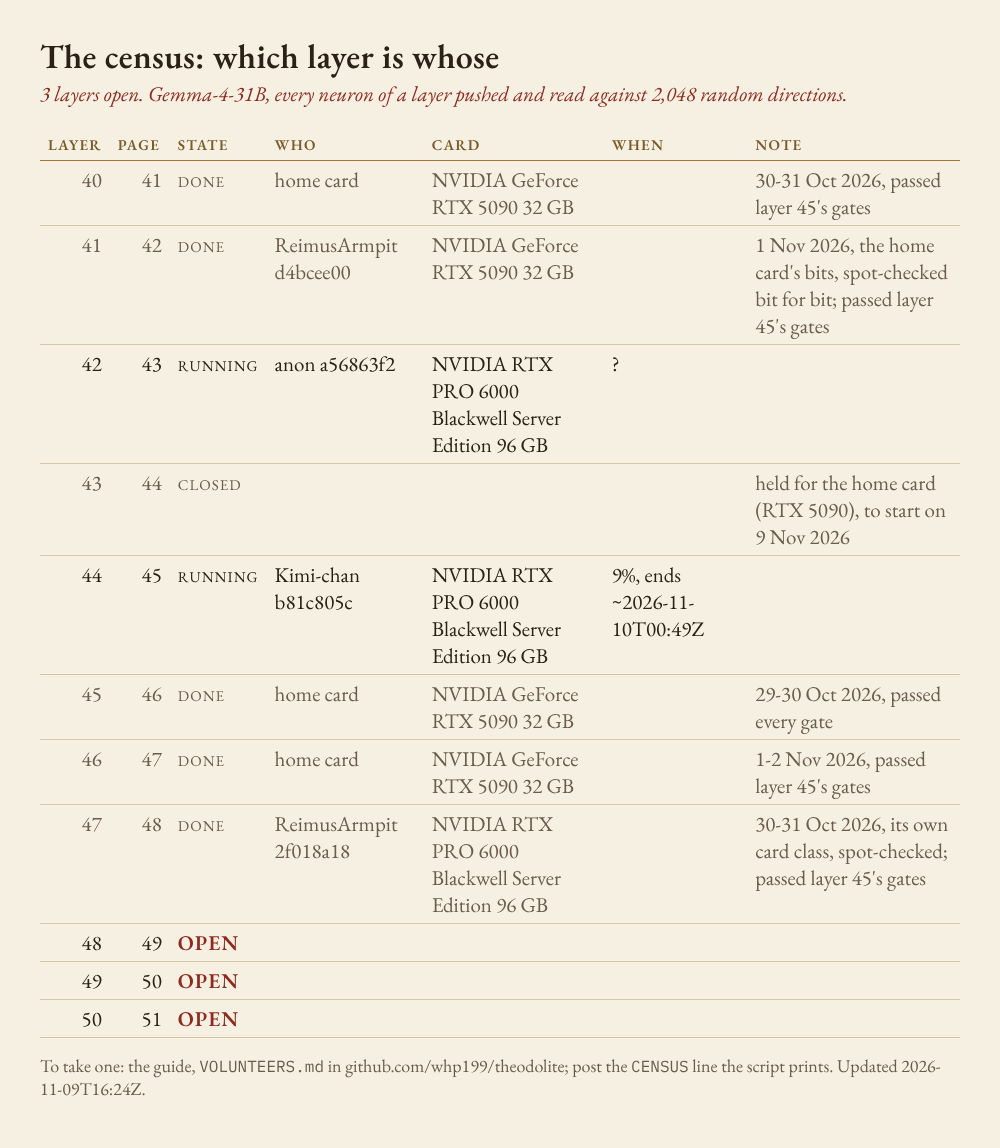
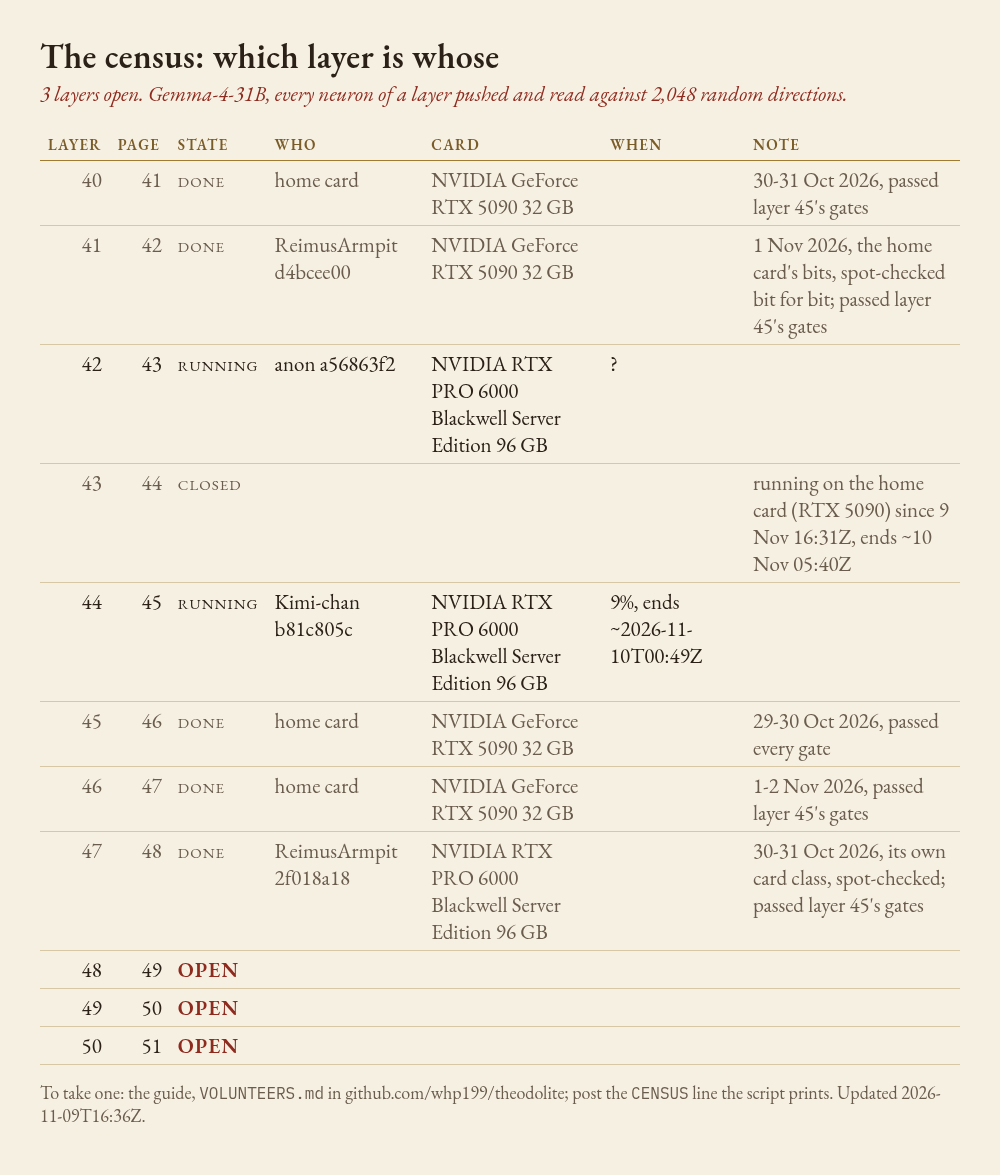
Board: layer 43 running on the home card since 9 Nov 16:31Z, to end about 05:40Z on the 10th
Started with the kit's settings (break_rel, every neuron, 2,048 controls, seed 7, batch 64, 48 pieces, compiled);
its first batch is the kit's home canary for layer 43 bit for bit. A sync found no CENSUS lines after the four of
9 November. Published to the board issue.

diff --git a/volunteers/BOARD.md b/volunteers/BOARD.md
@@ -7,7 +7,7 @@ Kit 1 (census-kit-1). How to take a layer: [VOLUNTEERS.md](https://github.com/wh
 | 40 | 41 | done | home card | NVIDIA GeForce RTX 5090 32 GB |  | 30-31 Oct 2026, passed layer 45's gates |
 | 41 | 42 | done | ReimusArmpit d4bcee00 | NVIDIA GeForce RTX 5090 32 GB |  | 1 Nov 2026, the home card's bits, spot-checked bit for bit; passed layer 45's gates |
 | 42 | 43 | running | anon a56863f2 | NVIDIA RTX PRO 6000 Blackwell Server Edition 96 GB | ? |  |
-| 43 | 44 | closed |  |  |  | held for the home card (RTX 5090), to start on 9 Nov 2026 |
+| 43 | 44 | closed |  |  |  | running on the home card (RTX 5090) since 9 Nov 16:31Z, ends ~10 Nov 05:40Z |
 | 44 | 45 | running | Kimi-chan b81c805c | NVIDIA RTX PRO 6000 Blackwell Server Edition 96 GB | 9%, ends ~2026-11-10T00:49Z |  |
 | 45 | 46 | done | home card | NVIDIA GeForce RTX 5090 32 GB |  | 29-30 Oct 2026, passed every gate |
 | 46 | 47 | done | home card | NVIDIA GeForce RTX 5090 32 GB |  | 1-2 Nov 2026, passed layer 45's gates |
@@ -21,4 +21,4 @@ Judged:
 - L47 ReimusArmpit 2f018a18: accepted (30-31 Oct 2026, its own card class, spot-checked passed layer 45s gates)
 - L41 ReimusArmpit d4bcee00: accepted (home bits (NVIDIA GeForce RTX 5090), spot-checked)
 
-Holds: 36 h after RESERVE to START; then the run's end time (from PROGRESS) plus 24 h; at most 10 days in all. Updated 2026-11-09T16:24Z.
+Holds: 36 h after RESERVE to START; then the run's end time (from PROGRESS) plus 24 h; at most 10 days in all. Updated 2026-11-09T16:36Z.
